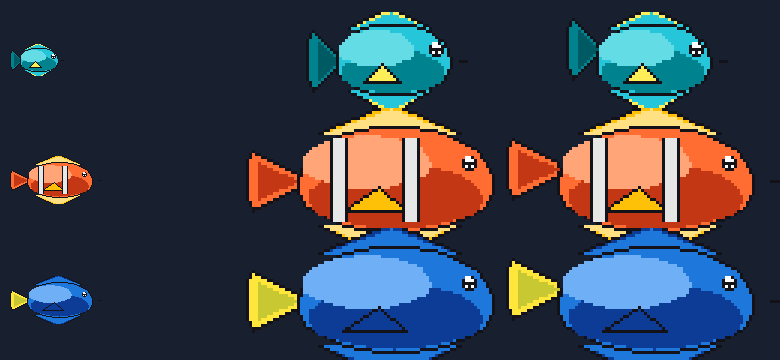
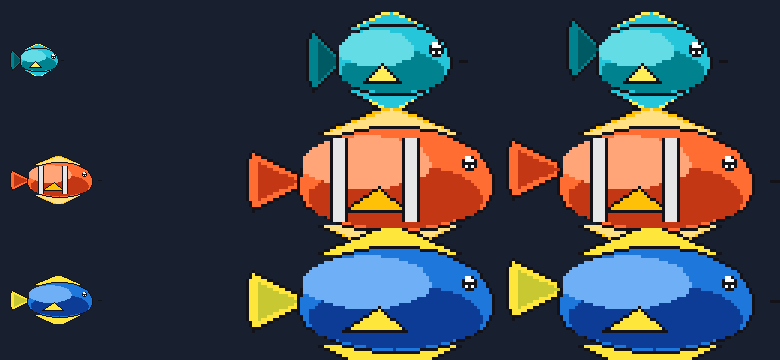
Blue tang fins yellow for visibility

diff --git a/.github/scripts/gen_consistent.py b/.github/scripts/gen_consistent.py
@@ -184,7 +184,7 @@ def small_body(d,W,H):
 # Species definitions: (W,H, body,shadow,highlight,tail,tailShadow,fin,finHi, pattern_func, tail_up default)
 SPECS = {
  'clownfish': (96,48, (255,109,50,255),(195,55,20,255),(255,165,120,255),(255,109,50,255),(195,55,20,255),(255,193,7,255),(255,224,130,255), bands_clown),
- 'bluetang': (96,48, (30,120,220,255),(12,60,150,255),(110,175,245,255),(255,230,59,255),(200,200,50,255),(12,60,150,255),(30,120,220,255), None),
+ 'bluetang': (96,48, (30,120,220,255),(12,60,150,255),(110,175,245,255),(255,230,59,255),(200,200,50,255),(255,230,59,255),(255,230,59,255), None),
  'angelfish': (80,80, (240,130,175,255),(190,20,85,255),(248,180,205,255),(190,20,85,255),(120,10,50,255),(190,20,85,255),(240,130,175,255), None),
  'butterflyfish': (80,48, (255,230,59,255),(245,160,30,255),(255,245,190,255),(255,143,0,255),(200,100,0,255),(255,143,0,255),(255,230,59,255), None),
  'royalgramma': (80,40, (123,31,162,255),(74,20,140,255),(170,80,200,255),(255,213,79,255),(200,170,40,255),(74,20,140,255),(123,31,162,255), None),
